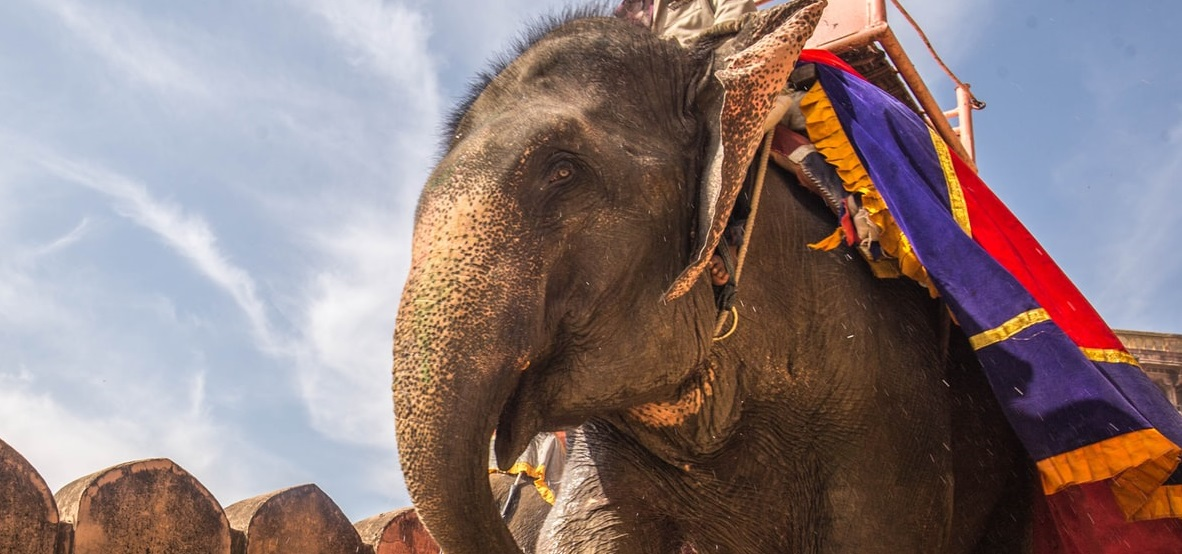
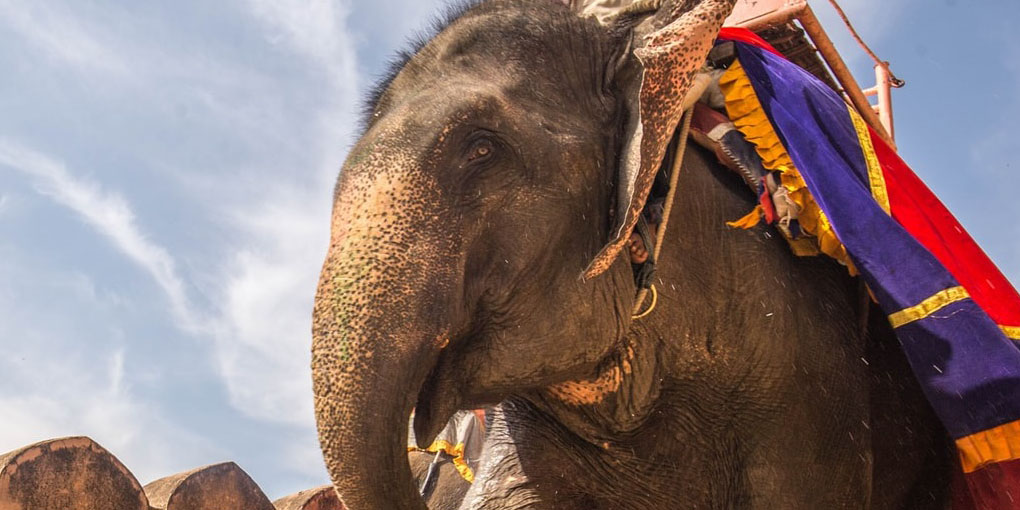
互動園區圖片修整

diff --git a/activepark/active-park.html b/activepark/active-park.html
@@ -44,17 +44,17 @@
             <li data-target="#carouselExampleIndicators" data-slide-to="2"></li>
           </ol>
           <div class="carousel-inner active-park-img-block">
-            <div class="carousel-item active"><a class="feeding-img" href="feeding.html"><img class="d-block w-100" src="../image/feeding1.jpg" alt="..."/>
+            <div class="carousel-item active"><a class="feeding-img" href="feeding.html"><img class="d-block w-100" src="../image/feeding1-banner.png" alt="..."/>
                 <div class="carousel-caption d-none d-md-block">
                   <h5>餵食區-羊駝</h5>
                   <p>羊駝的餵食區，羊駝其實就是大家所熟悉的"草泥馬"，羊駝的皮毛屬於高價品，因此其價值頗高，但又因其屬跟駱駝是近親，有著讓飼養員比較尷尬的習性，那就是───吐口水</p>
                 </div></a></div>
-            <div class="carousel-item"><a class="feeding-img" href="feeding.html"><img class="d-block w-100" src="../image/feeding2.jpg" alt="..."/>
+            <div class="carousel-item"><a class="feeding-img" href="feeding.html"><img class="d-block w-100" src="../image/feeding2-banner.png" alt="..."/>
                 <div class="carousel-caption d-none d-md-block">
                   <h5>餵食區-綿羊</h5>
                   <p>綿羊是我們常聽到的牧場動物，其皮毛因品種與個體身體狀況的不同，其價值間有極大的差異，大眾認為綿羊是極為溫順的草食動物，但事實上，綿羊並沒有一般認知上那麼柔弱</p>
                 </div></a></div>
-            <div class="carousel-item"><a class="feeding-img" href="feeding.html"><img class="d-block w-100" src="../image/feeding3.jpg" alt="..."/>
+            <div class="carousel-item"><a class="feeding-img" href="feeding.html"><img class="d-block w-100" src="../image/feeding3-banner.png" alt="..."/>
                 <div class="carousel-caption d-none d-md-block">
                   <h5>餵食區-牛</h5>
                   <p>牛是古時農家的好夥伴，已經馴養好的牛隻是很溫順的，但如果遇到野生的牛隻，千萬不要輕易地靠近他!</p>

diff --git a/style.sass b/style.sass
@@ -295,38 +295,13 @@
                 h5
                     color: rgba(22, 202, 22, 0.993)
                     font-weight: 20px
+                    top: 10vh
                 p
                     color: rgba(22, 202, 22, 0.993)
                     font-weight: 20px
 #feeding-area
     height: 50vh
     padding-top: 10vh
-@media screen and ( max-width: 1023px )
-    .active-area
-        width: 80vw
-        height: 40vh
-        overflow: hidden
-        margin: 0 auto
-    .active-par-img-block
-        div
-            a
-                img
-                    height: 40vh
-                    width: 80vw
-                    object-fit: cover
-                    z-index: -1
-                div
-                    h5
-                        color: rgba(22, 202, 22, 0.993)
-                        font-weight: 20px
-                    p
-                        color: rgba(22, 202, 22, 0.993)
-                        font-weight: 20px
-    #feeding-area
-        height: 50vh
-        padding-top: 10vh
-    
-
 //-主題餐廳
 #coffee-background
     width: 80vw

diff --git a/style.css b/style.css
@@ -406,6 +406,7 @@
 .active-par-img-block div a div h5 {
   color: rgba(22, 202, 22, 0.993);
   font-weight: 20px;
+  top: 10vh;
 }
 
 .active-par-img-block div a div p {
@@ -416,34 +417,6 @@
 #feeding-area {
   height: 50vh;
   padding-top: 10vh;
-}
-
-@media screen and (max-width: 1023px) {
-  .active-area {
-    width: 80vw;
-    height: 40vh;
-    overflow: hidden;
-    margin: 0 auto;
-  }
-  .active-par-img-block div a img {
-    height: 40vh;
-    width: 80vw;
-    -o-object-fit: cover;
-       object-fit: cover;
-    z-index: -1;
-  }
-  .active-par-img-block div a div h5 {
-    color: rgba(22, 202, 22, 0.993);
-    font-weight: 20px;
-  }
-  .active-par-img-block div a div p {
-    color: rgba(22, 202, 22, 0.993);
-    font-weight: 20px;
-  }
-  #feeding-area {
-    height: 50vh;
-    padding-top: 10vh;
-  }
 }
 
 #coffee-background {
